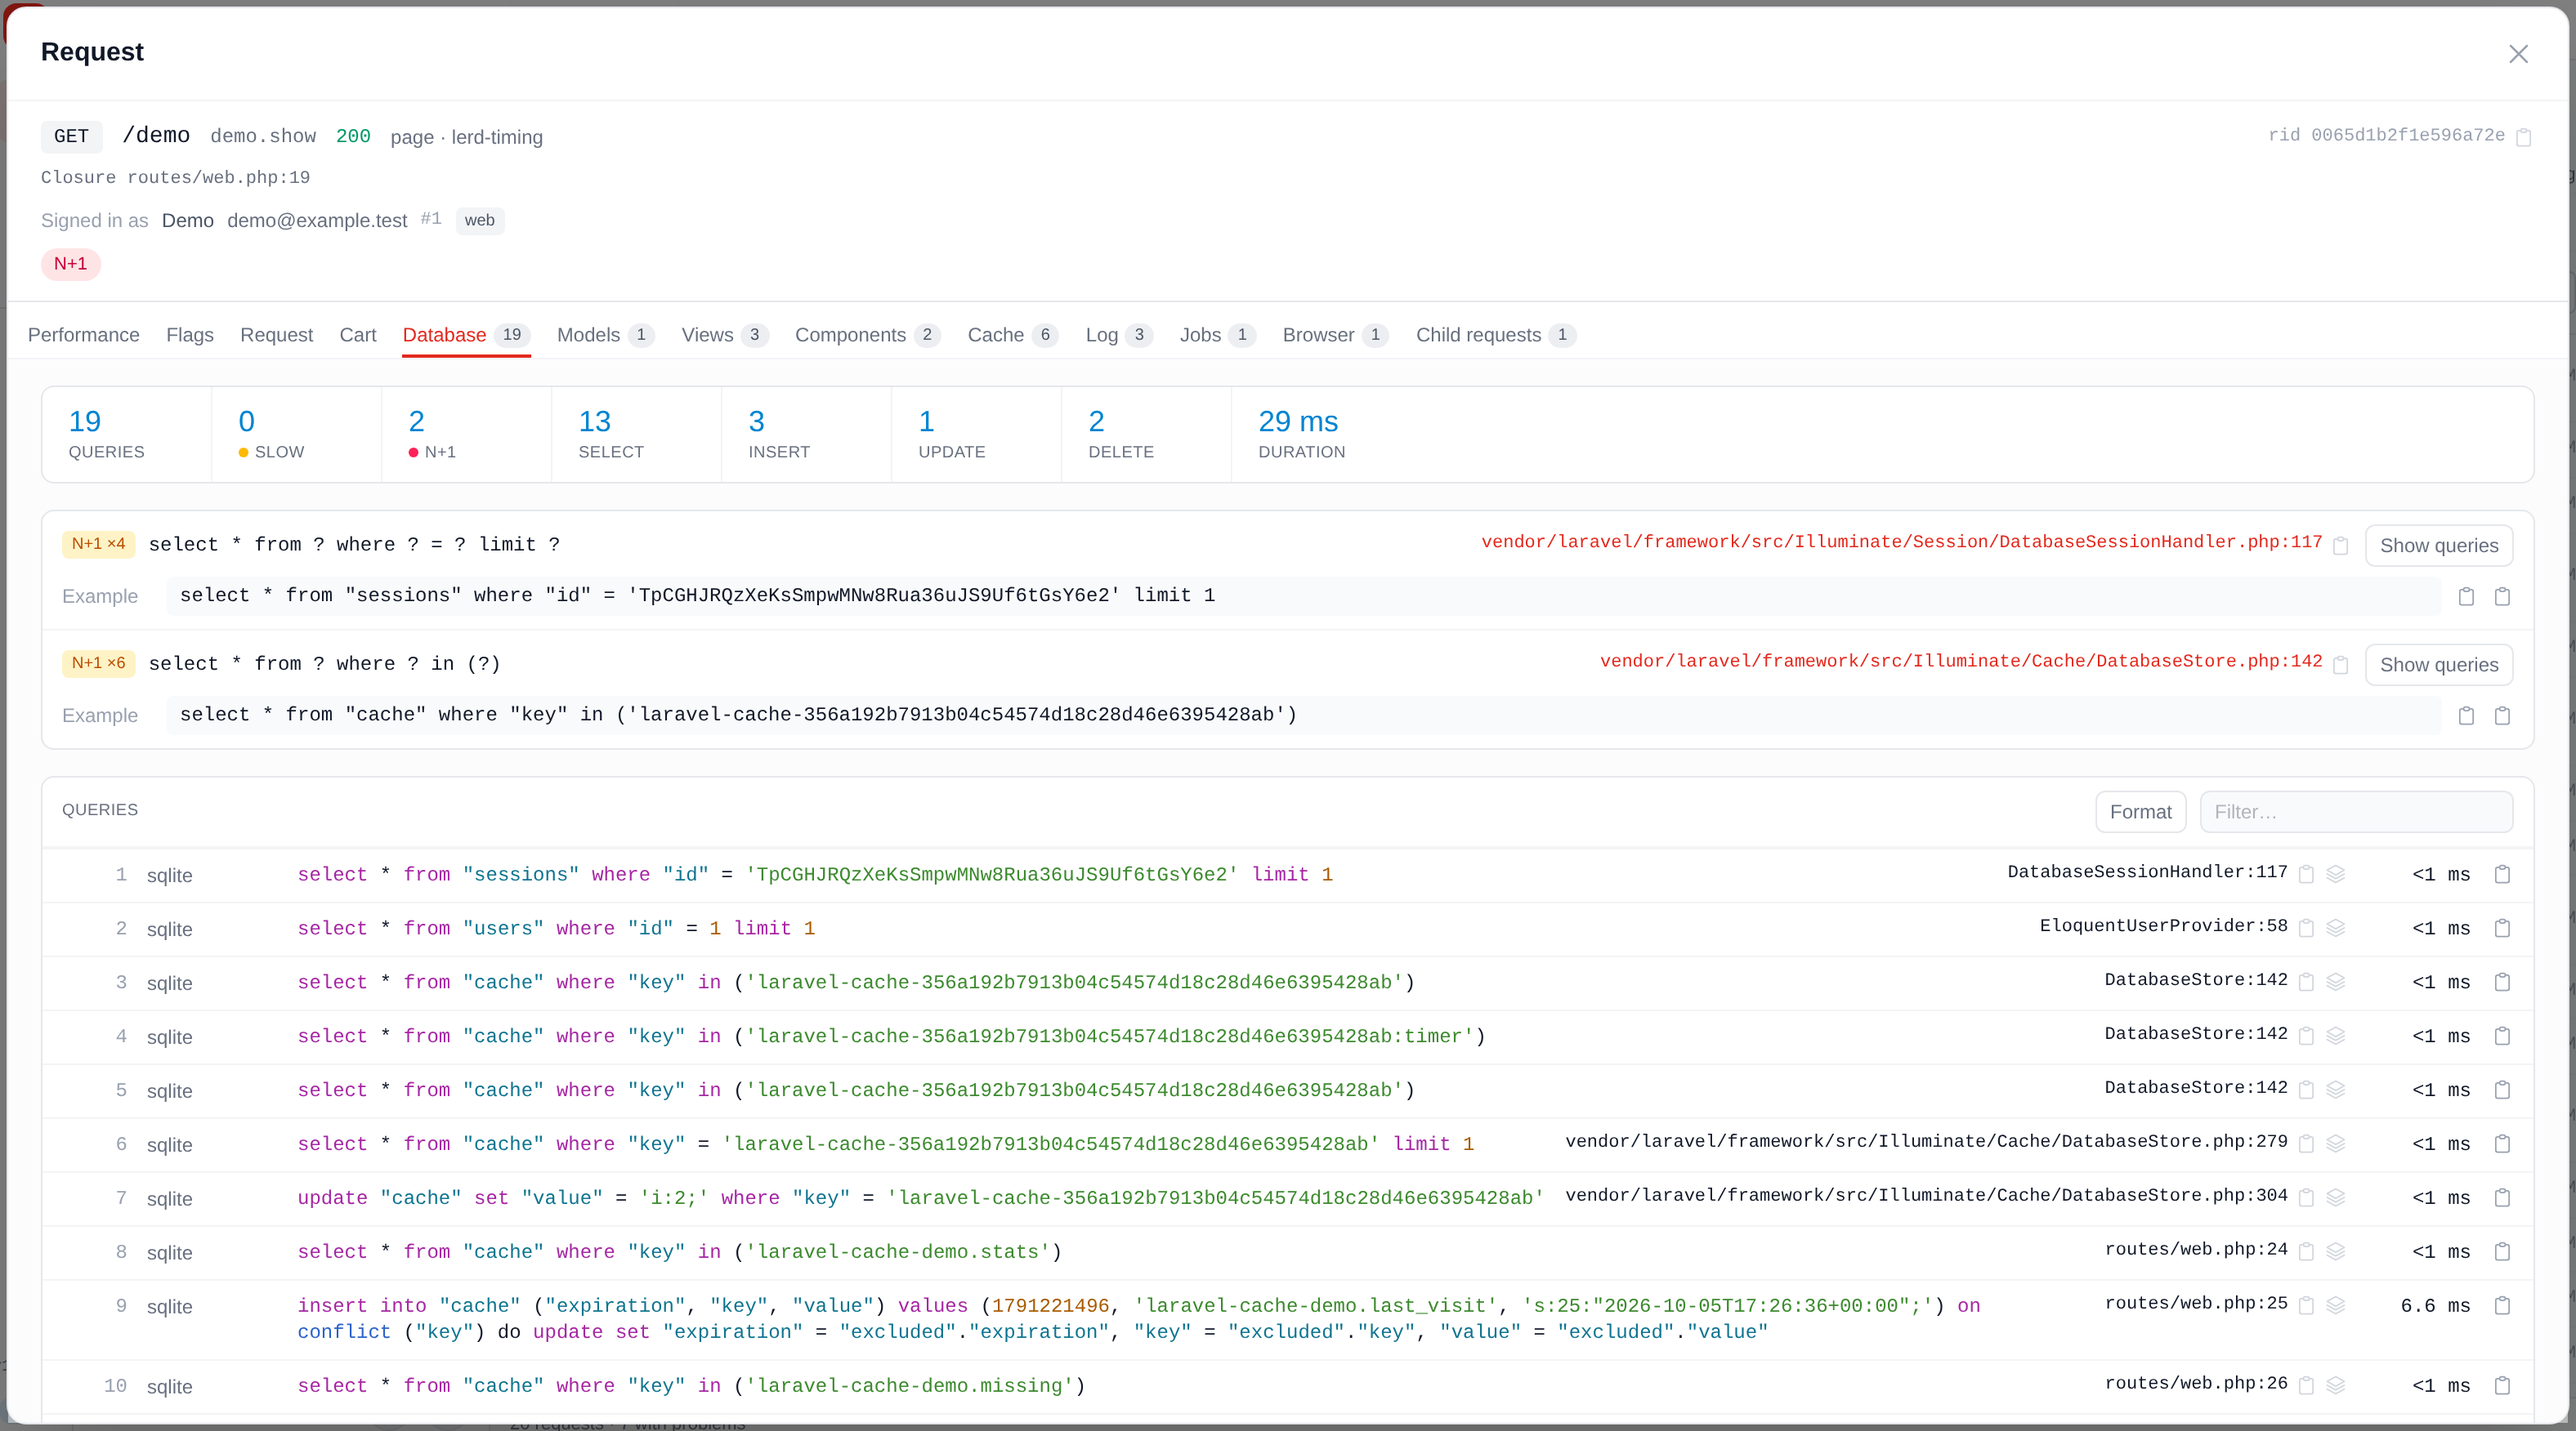
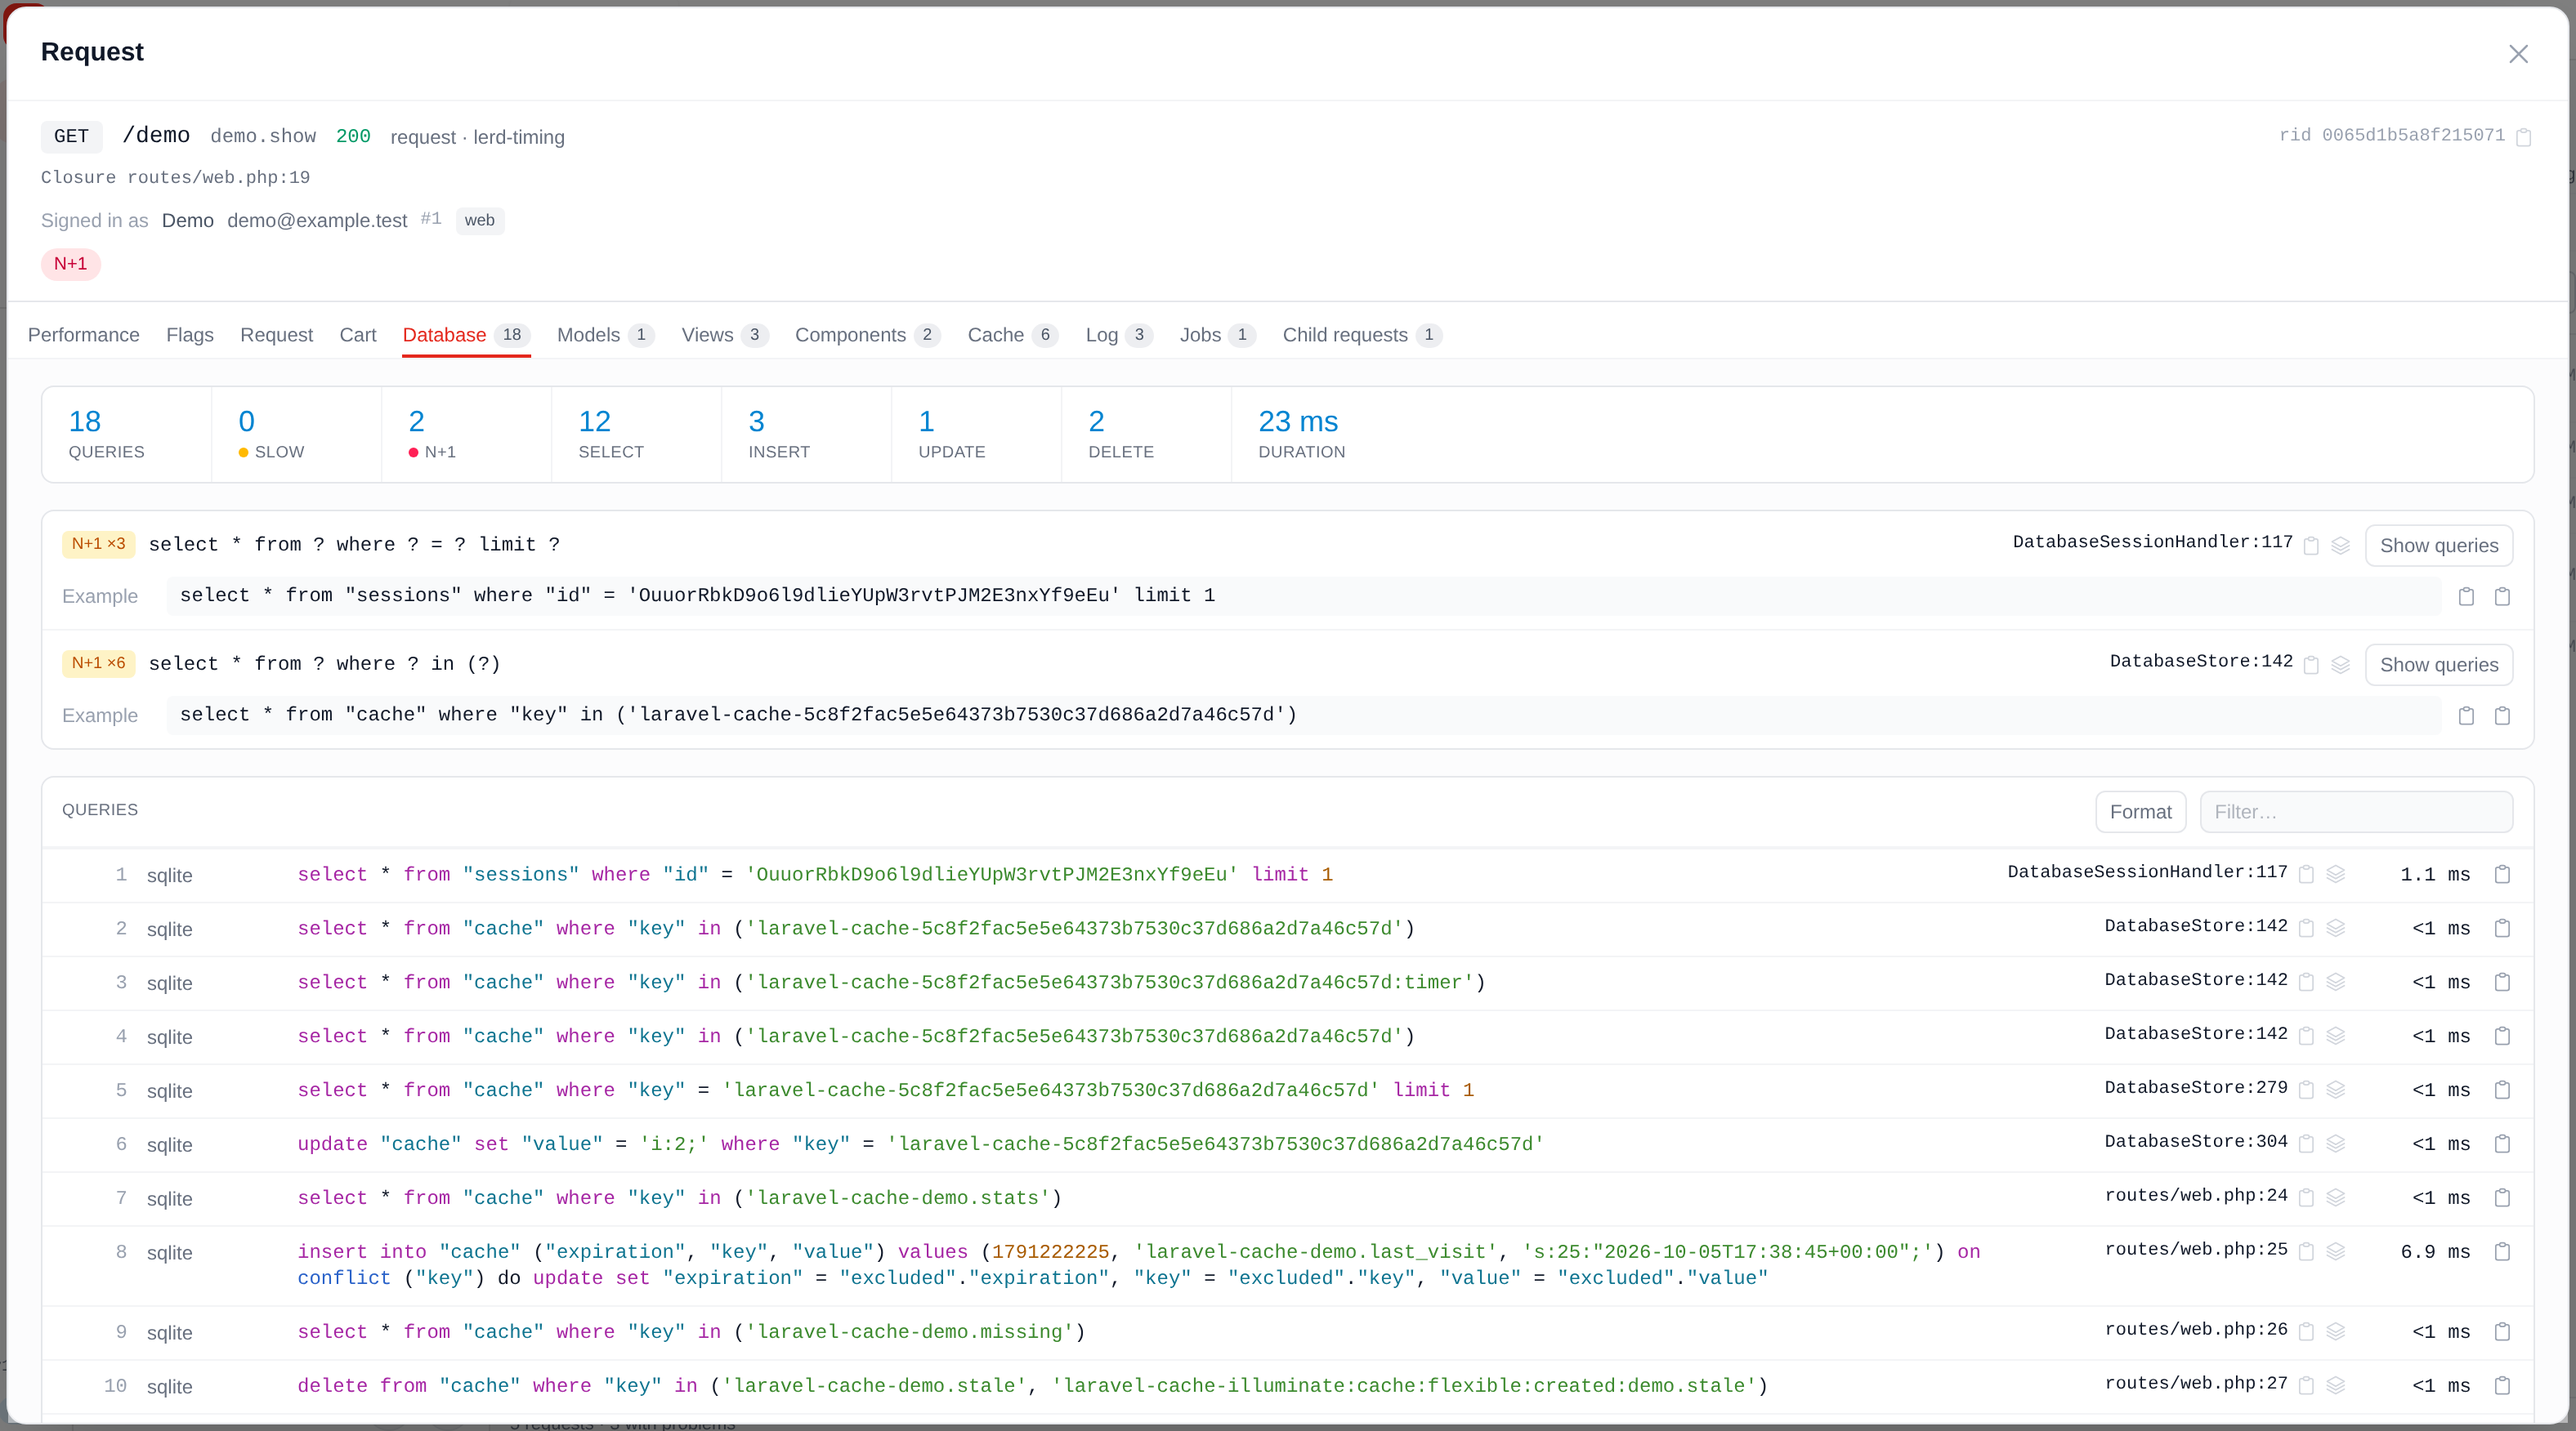
fix: name query callers by their class everywhere and centre the bar's pills
A query run from a closure written in a class, the cache store's for one, is named by that class like the rest instead of showing its whole vendor path, while a closure in a plain file, a route's, still is not given the class it ran bound to. An N+1 finding is named the same way as its queries, with their stack trace a click away. The debug bar's N+1 and failure pills sit on the same line as the text beside them.

diff --git a/internal/ui/web/src/components/RequestDetail.test.ts b/internal/ui/web/src/components/RequestDetail.test.ts
@@ -7,9 +7,9 @@ vi.mock('$stores/requests', async (orig) => ({
   loadRequest: () =>
     Promise.resolve({
       rid: 'g1', type: 'fetch', method: 'POST', uri: '/graphql', status: 200, started: '', counts: {}, problems: [], operation: 'query Feed',
-      queries: { query_count: 4, total_time_ms: 4, n_plus_one: [{ fingerprint: 'select * from users where id = ?', count: 3, sample_sql: 'select * from users where id = ?', caller: { file: '', line: 0 }, ids: ['q0', 'q1', 'q2'] }] },
+      queries: { query_count: 4, total_time_ms: 4, n_plus_one: [{ fingerprint: 'select * from users where id = ?', count: 3, sample_sql: 'select * from users where id = ?', ids: ['q0', 'q1', 'q2'], caller: { file: '/srv/app/vendor/acme/Store.php', line: 9 } }] },
       events: {
-        query: ['select * from users where id = ?', 'select * from users where id = ?', 'select * from users where id = ?', 'select * from sessions'].map((sql, i) => ({ id: `q${i}`, ts: '', kind: 'query', ctx: {}, src: {}, data: { sql, time_ms: 1 } })),
+        query: ['select * from users where id = ?', 'select * from users where id = ?', 'select * from users where id = ?', 'select * from sessions'].map((sql, i) => ({ id: `q${i}`, ts: '', kind: 'query', ctx: {}, src: { file: '/srv/app/vendor/acme/Store.php', line: 9 }, data: { sql, time_ms: 1, trace: [{ file: '/srv/app/vendor/acme/Store.php', line: 9, func: 'Acme\\Db->select' }, { file: '/srv/app/vendor/acme/Store.php', line: 4, func: 'Acme\\Cache\\Store->get' }] } })),
         view: [0, 1].map((i) => ({ id: `v${i}`, ts: '', kind: 'view', ctx: {}, src: {}, data: { name: 'item' } })),
         span: [5, 70].map((ms, i) => ({ id: `s${i}`, ts: '', kind: 'span', ctx: {}, src: {}, data: { label: 'View', name: 'item', time_ms: ms, status: 'ok' } })),
         cache: Array.from({ length: 450 }, (_, i) => ({ id: `c${i}`, ts: '', kind: 'cache', ctx: {}, src: {}, data: { op: 'hit', key: `key-${i}` } })),
@@ -57,5 +57,12 @@ describe('RequestDetail', () => {
     await fireEvent.click(await screen.findByRole('tab', { name: /Views/ }));
     expect(screen.getByText('5.0 ms')).toBeInTheDocument();
     expect(screen.getByText('70 ms')).toBeInTheDocument();
+  });
+
+  it('names an N+1 finding by the class that ran its queries', async () => {
+    render(RequestDetail, { props: { rid: 'g1', onopen: () => {} } });
+    await fireEvent.click(await screen.findByRole('tab', { name: /Database/ }));
+    expect(screen.getAllByText(/^Store(:9)?$/).length).toBeGreaterThan(1);
+    expect(screen.queryByText(/vendor\/acme\/Store\.php/)).toBeNull();
   });
 });

diff --git a/internal/ui/web/src/components/RequestDetail.svelte b/internal/ui/web/src/components/RequestDetail.svelte
@@ -114,6 +114,8 @@
   const cap = <T,>(key: string, list: T[]): T[] => list.slice(0, limits[key] ?? PAGE);
   // A query keeps the number of its place in the run when the list is filtered.
   const queryNo = $derived(new Map(queries.map((e, i) => [e.id, i + 1])));
+  // An N+1 finding is named like its queries, by the class that ran them, with their stack a click away.
+  const queryById = $derived(new Map(queries.map((e) => [e.id, e])));
   // An N+1 finding, once picked, narrows the list to the queries it repeats.
   let only = $state<QueryFinding | null>(null);
   const onlyIds = $derived(new Set(only?.ids ?? []));
@@ -387,7 +389,7 @@
                 <div class="flex items-center gap-2">
                   <span class="{BADGE} bg-amber-100 dark:bg-amber-900/40 text-amber-700 dark:text-amber-300">{f.count ? `N+1 ×${f.count}` : ms(f.time_ms ?? 0)}</span>
                   <span class="font-mono truncate flex-1">{f.fingerprint ?? f.sql}</span>
-                  <span class="text-[11px] min-w-0 max-w-[45%]"><SourcePath file={f.caller.file} line={f.caller.line} short /></span>
+                  <span class="text-[11px] min-w-0 max-w-[45%]">{#if queryById.get(f.ids?.[0] ?? '')}{@const q = queryById.get(f.ids?.[0] ?? '')!}<CallerSource file={f.caller.file} line={f.caller.line} trace={data(q).trace} />{:else}<SourcePath file={f.caller.file} line={f.caller.line} short />{/if}</span>
                   {#if f.ids?.length}<button type="button" aria-pressed={only === f} onclick={() => (only = only === f ? null : f)} class="text-xs px-2 py-1 rounded-md border border-gray-200 dark:border-lerd-border whitespace-nowrap {only === f ? 'bg-gray-100 dark:bg-white/10 text-gray-800 dark:text-gray-100' : 'text-gray-500 dark:text-gray-400'}">{m.requests_nPlusOneShow()}</button>{/if}
                 </div>
                 {#if f.example_sql}

diff --git a/internal/ui/web/src/lib/sourceLabel.test.ts b/internal/ui/web/src/lib/sourceLabel.test.ts
@@ -20,6 +20,11 @@ describe('source labels', () => {
       { file: '/app/vendor/Router.php', line: 9, func: 'Illuminate\\Routing\\RouteFileRegistrar->{closure:/app/routes/web.php:9}' }
     ];
     expect(callerClass('/app/routes/web.php', 22, route)).toBe('');
+    const store = [
+      { file: '/app/vendor/Cache/DatabaseStore.php', line: 279, func: 'Illuminate\\Database\\Query\\Builder->first' },
+      { file: '/app/vendor/Cache/DatabaseStore.php', line: 270, func: 'Illuminate\\Cache\\DatabaseStore->{closure:Illuminate\\Cache\\DatabaseStore::incrementOrDecrement():275}' }
+    ];
+    expect(callerClass('/app/vendor/Cache/DatabaseStore.php', 279, store)).toBe('Illuminate\\Cache\\DatabaseStore');
   });
 });
 

diff --git a/internal/ui/web/src/debugbar/bar.css b/internal/ui/web/src/debugbar/bar.css
@@ -42,7 +42,7 @@
 .method { font-family: var(--font-mono); font-size: 10.5px; color: var(--muted); }
 .ok { color: var(--green); font-family: var(--font-mono); }
 .err { color: var(--rose); font-family: var(--font-mono); }
-.pill { font-size: 10px; font-weight: 600; padding: 1px 6px; border-radius: 999px; }
+.pill { font-size: 10px; font-weight: 600; padding: 4px 6px; border-radius: 999px; text-box: trim-both cap alphabetic; }
 .pill-amber { background: var(--amber-soft); color: var(--amber); }
 .pill-red { background: var(--red-soft); color: var(--red); }
 .phase { display: inline-flex; width: 48px; height: 4px; border-radius: 2px; overflow: hidden; background: var(--border); gap: 1px; }

diff --git a/internal/ui/web/src/lib/sourceLabel.ts b/internal/ui/web/src/lib/sourceLabel.ts
@@ -27,6 +27,10 @@ export function callerClass(file: string, line: number | undefined, trace: Frame
   if (!trace) return '';
   const i = trace.findIndex((f) => f.file === file && f.line === line);
   const func = i >= 0 ? (trace[i + 1]?.func ?? '') : '';
+  // A closure written in a class names that class in its own label; one in a
+  // plain file, a route closure, runs bound to whatever class called it.
+  const closure = /\{closure:([A-Za-z_\\][\w\\]*)::/.exec(func);
+  if (closure) return closure[1];
   const m = /^([A-Za-z_\\][\w\\]*)(?:->|::)(?!\{closure)/.exec(func);
   return m ? m[1] : '';
 }
